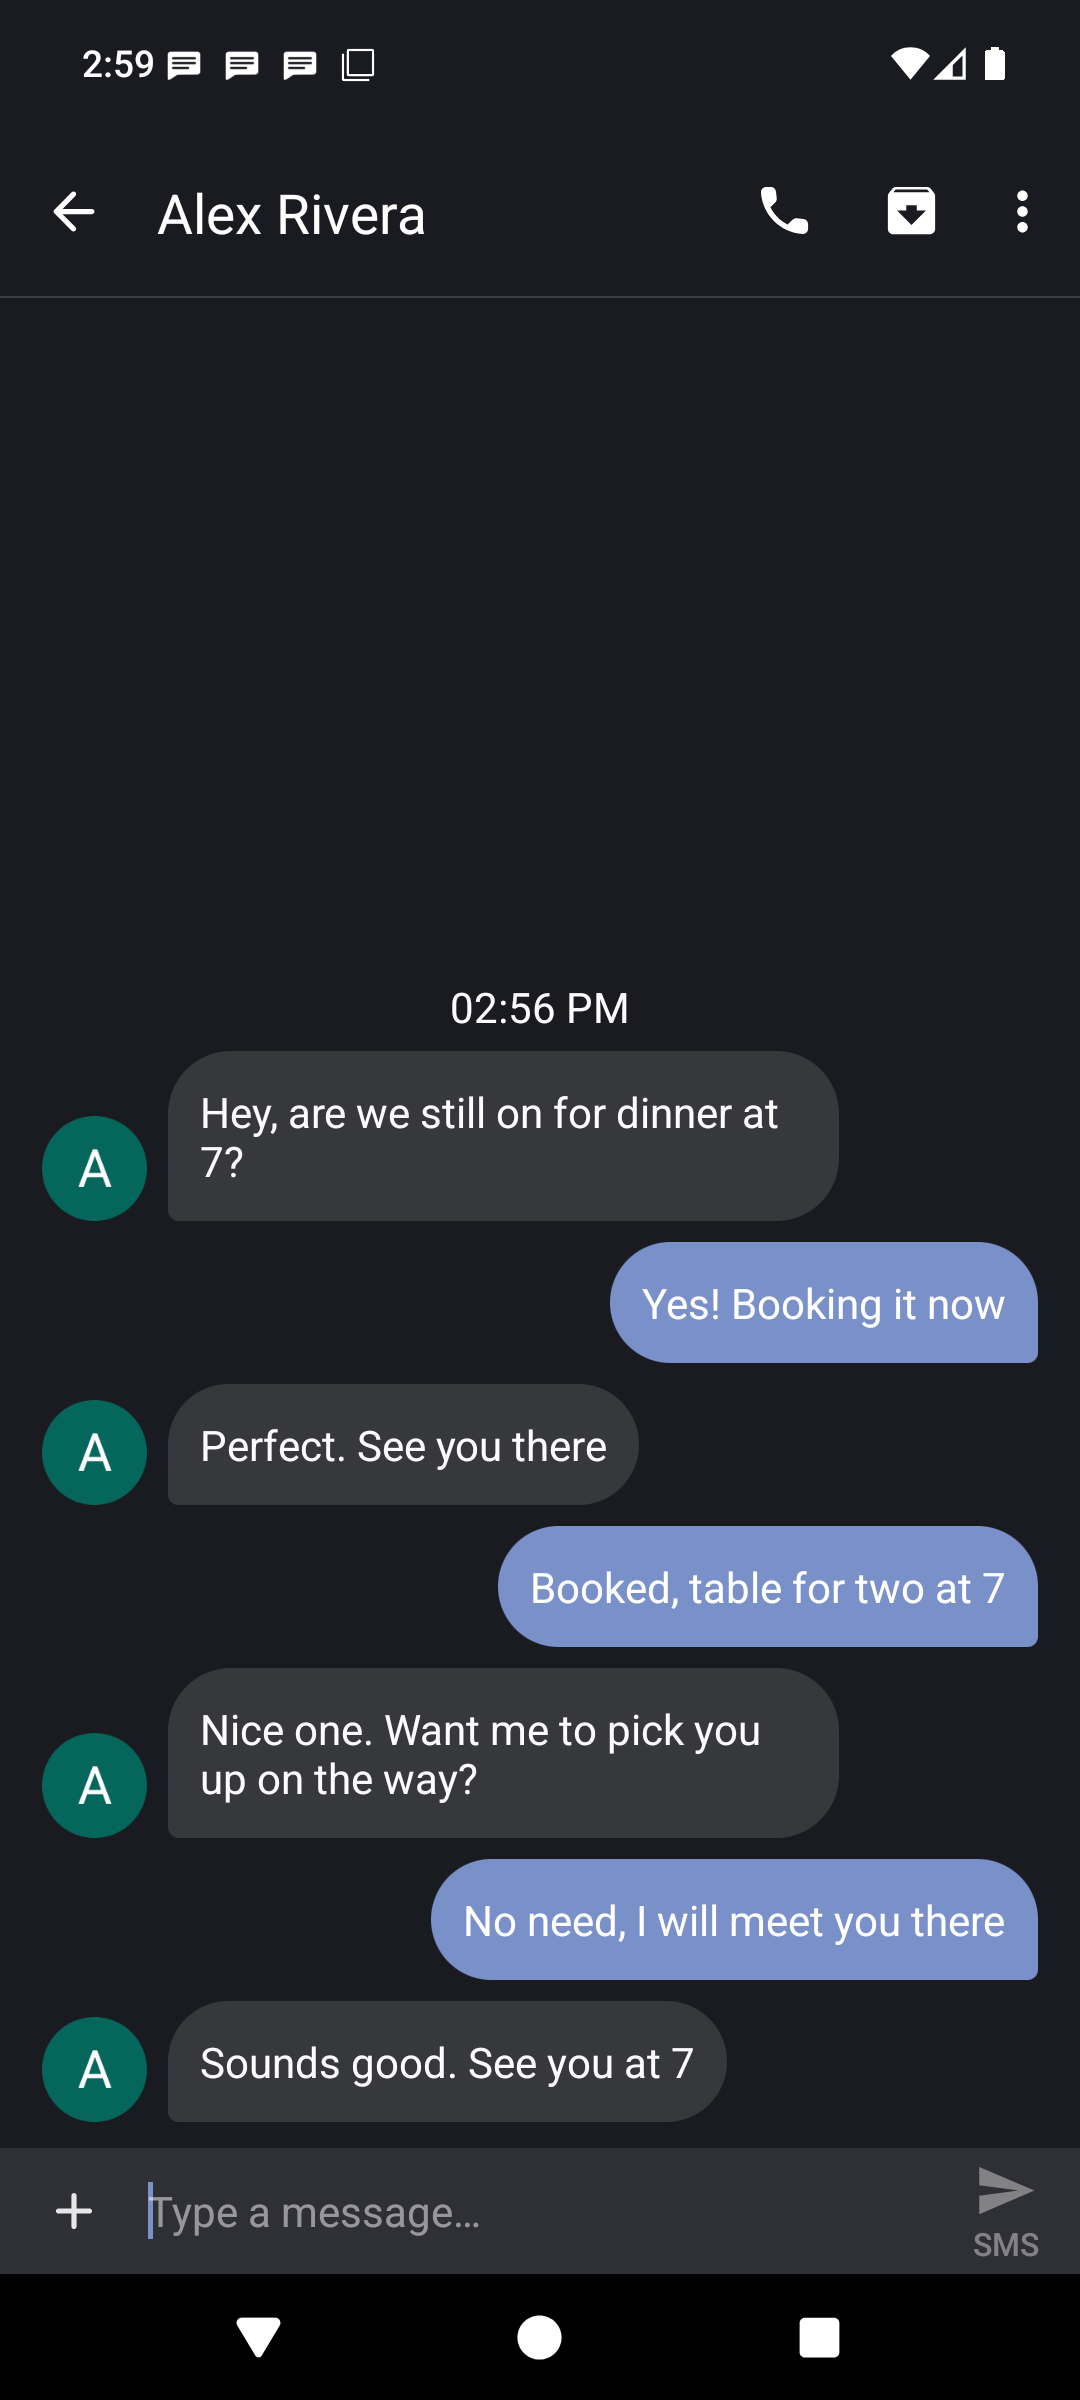
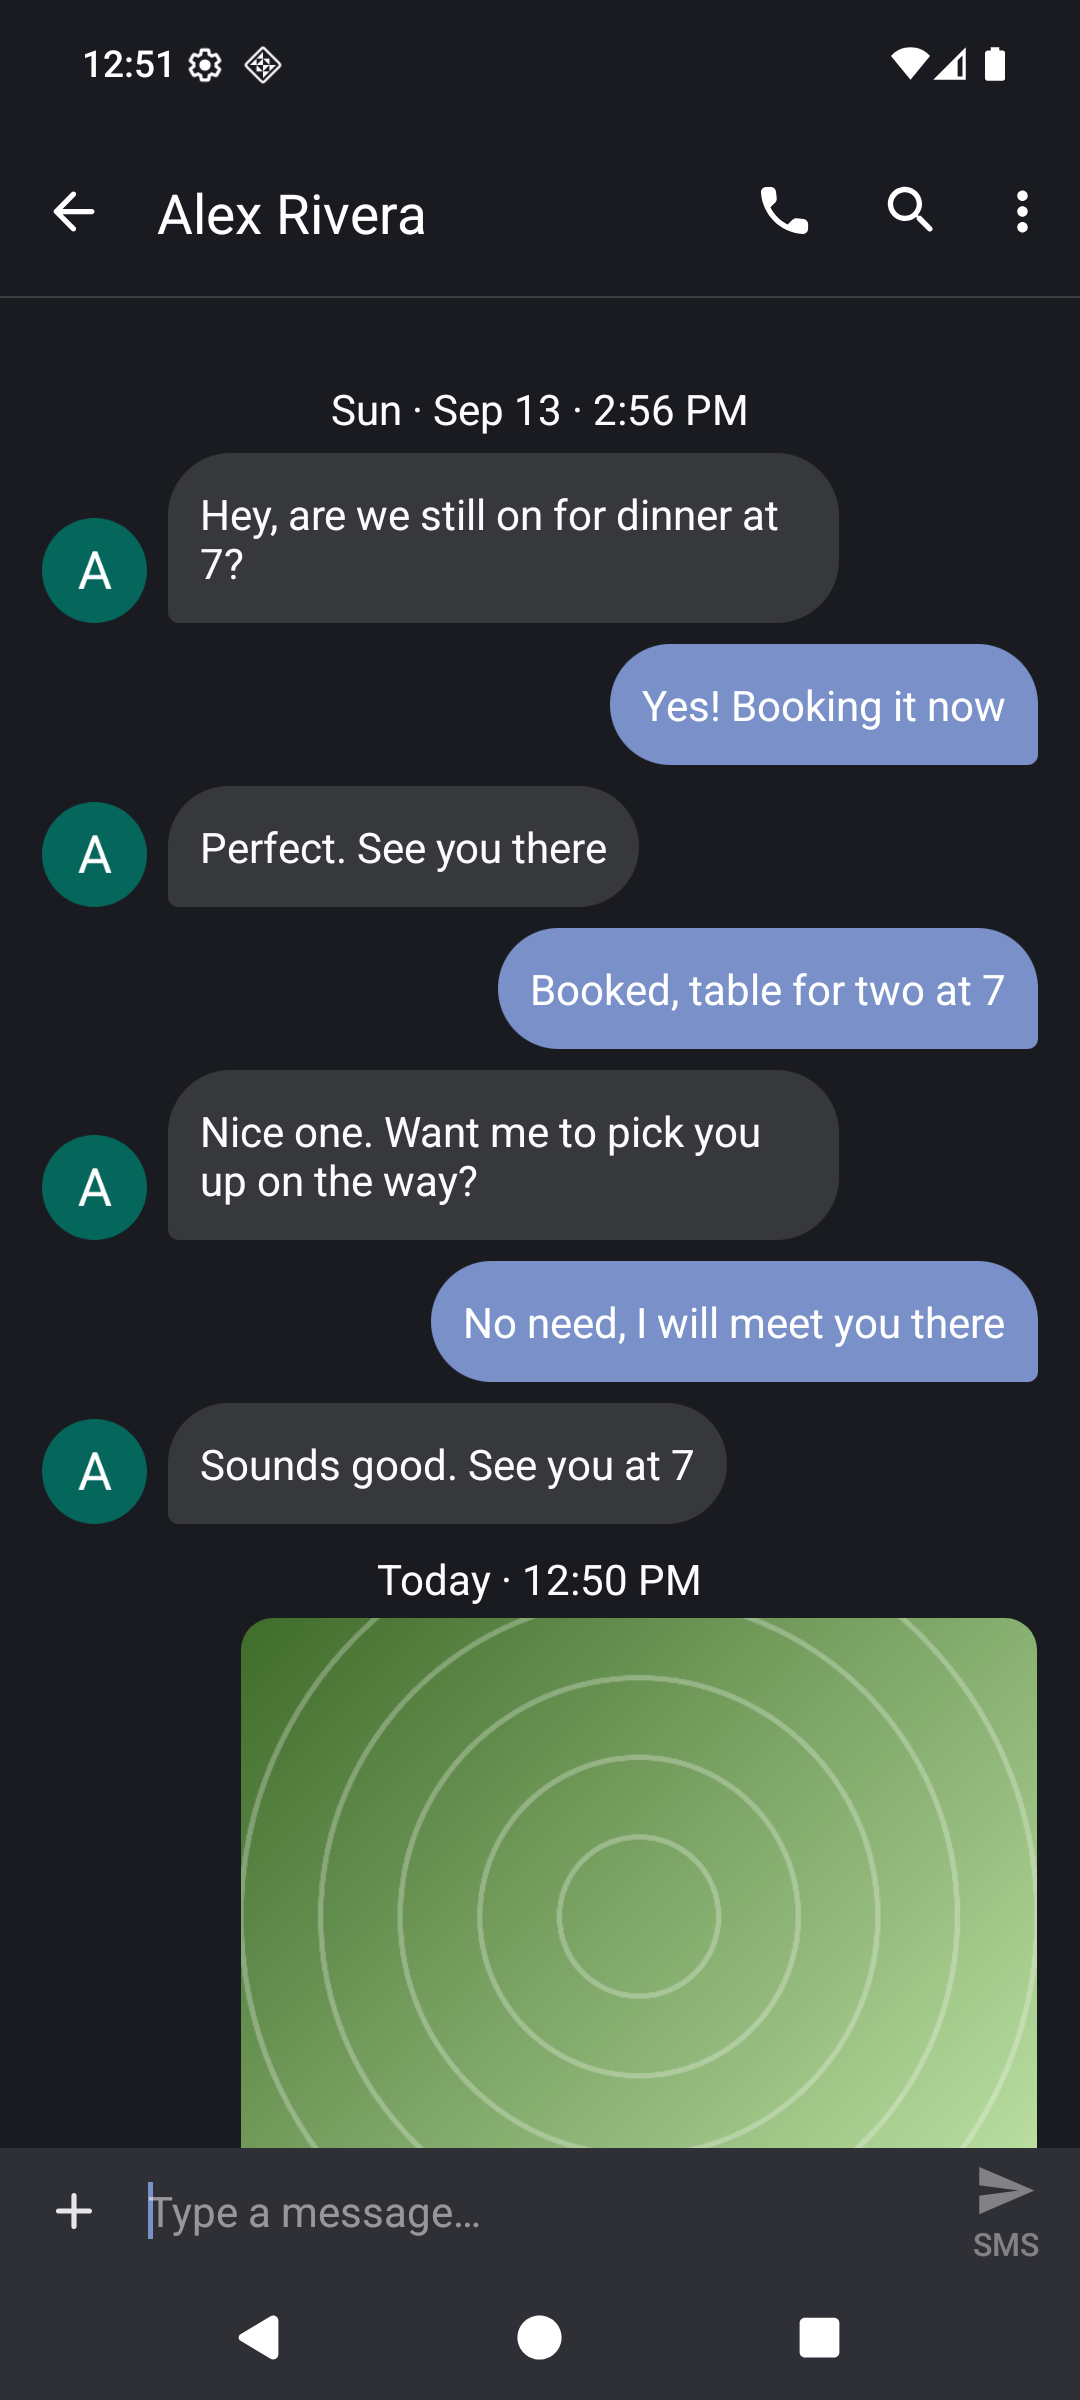
Write the README around what the app does now
The fork began as two notification and scrolling fixes and the README
still said only that. It now covers reading a message, the dates, the
media viewer and gallery, swipe actions, passcode conversations and what
reporting spam can honestly do, with screenshots of each.

Screenshots are taken on an emulator with invented contacts and messages;
nothing here comes from a real conversation.

diff --git a/README.md b/README.md
@@ -2,15 +2,13 @@
 
 # Levinium Messages
 
-**An SMS app that doesn't notify you about texts you are already reading.**
+**An SMS app that stays out of your way: no notifications for messages you are already reading, a
+gallery for what a conversation has sent you, and dates you can read at a glance.**
 
-This is an unofficial fork of [Fossify Messages](https://github.com/FossifyOrg/Messages) with two
-fixes: incoming messages stop raising notifications you would only have to dismiss, and a message
-that arrives while you are at the bottom of a conversation actually scrolls into view.
-
-It is not a Fossify product and is not affiliated with, endorsed by, or supported by the Fossify
-project. Please report problems with this fork [here](https://github.com/levinium/Messages/issues)
-rather than to them.
+An unofficial fork of [Fossify Messages](https://github.com/FossifyOrg/Messages), keeping everything
+that app does and adding the things this one needed. It is not a Fossify product and is not
+affiliated with, endorsed by, or supported by the Fossify project. Please report problems with this
+fork [here](https://github.com/levinium/Messages/issues) rather than to them.
 
 [![download](https://img.shields.io/github/v/release/levinium/Messages?label=download&sort=semver)](https://github.com/levinium/Messages/releases/latest)
 [![downloads](https://img.shields.io/github/downloads/levinium/Messages/total)](https://github.com/levinium/Messages/releases)
@@ -21,7 +19,7 @@ rather than to them.
 
 ## Download
 
-[**LeviniumMessages-1.9.1.apk**](https://github.com/levinium/Messages/releases/latest) — 6.3 MB
+[**LeviniumMessages-1.9.1-levinium.4.apk**](https://github.com/levinium/Messages/releases/latest) — 7.2 MB
 
 Your browser or file manager will warn you before installing an app from outside an app store, and
 Android will ask you to allow installs from that app once. That is expected for any APK installed by
@@ -49,26 +47,97 @@ The alert the notification would have played is **played in its place**, so noth
 silently. It goes through the conversation's own notification channel and honors Do Not Disturb and
 the ringer mode, so a muted conversation or a silenced phone stays quiet.
 
-All of it is optional, under **Settings → Notifications**, defaulting to the behavior above. Turning
-the first switch off restores upstream behavior for an open conversation completely.
+A message that arrives while you are sitting at the bottom of a conversation also **scrolls into
+view** rather than landing half cut off below the fold.
 
 <img src="docs/screenshots/notification-settings.png" width="320" alt="The three notification switches in Settings">
 
-## New messages scroll into view
+## Dates you can read
 
-Receiving a message while sitting at the bottom of a conversation used to leave it half cut off
-below the fold, needing a manual scroll to read what had just arrived.
+`09/19` tells you nothing about which of the two numbers is the month. Dates read as a person would
+say them — **Wed · Sep 19 · 8:03 PM** — throughout the app: on the separators inside a conversation,
+in the list, under an opened message and in the gallery.
 
-Two bugs sat in the same block upstream. The "is the user at the bottom" test required the last item
-to be exactly one position below the last visible one, but when you really are at the bottom that
-difference is zero, so the check failed in exactly the case it existed for. And when it did fire, it
-scrolled to the last index of the *previous* list, which is the message before the one that arrived.
+The year is dropped while it is still the current one, and today and yesterday are named rather than
+dated. Both of those, and the spelled-out format itself, can be turned off in Settings.
 
-<img src="docs/screenshots/conversation.png" width="320" alt="A conversation">
+## Tap a message to read it
+
+Tapping a message opens it: larger text, its timestamp underneath, and the text selectable so you
+can copy part of it rather than the whole thing. Tapping it again closes it.
+
+Long pressing a link offers to copy, open or share it. Messages that are nothing but emoji are drawn
+large, the way every other messaging app draws them.
+
+<img src="docs/screenshots/reading-mode.png" width="320" alt="A message opened to show its timestamp">
+
+## Pictures stay in the app
+
+Tapping a picture used to hand it to whatever other app claimed the file type, which loses the
+conversation you were in. It opens in the app instead, with pinch and double-tap zoom, video
+playback, and a swipe sideways through everything else the conversation holds.
+
+<img src="docs/screenshots/media-viewer.png" width="320" alt="A picture open in the viewer, titled with when it was sent">
+
+**View media** in the conversation's menu opens all of it as a grid, dated as you scroll. Select one
+or several to share, save, copy or open them — the things people do with pictures from a
+conversation are rarely done one at a time.
+
+<img src="docs/screenshots/gallery.png" width="320" alt="The gallery grid with a picture selected">
+
+## Swipe a conversation to deal with it
+
+Filing something away meant long pressing it, waiting for the action bar and finding the right icon.
+A swipe does it: **right marks read or unread, left archives**, and either direction can be set to
+any of those, to delete, or to nothing at all.
+
+The row carries the colour and icon of what is coming while it moves, so the gesture says what it
+will do before you finish it. Afterwards a bar offers to undo it. In the archive the pair is fixed
+and obvious: swipe right to put a conversation back, left to be rid of it.
+
+<img src="docs/screenshots/swipe-actions.png" width="320" alt="A conversation part way through a swipe, showing the mark-read icon">
+
+## Passcode conversations are treated as what they are
+
+A conversation that only ever delivered verification codes is not a conversation. The app recognises
+one — nothing ever sent to it, not a saved contact, and mostly codes — and treats it accordingly: it
+is deleted rather than archived (it asks first, and shows the delete icon while you swipe), and its
+toolbar drops the call and search buttons for a delete button, since nobody rings a passcode.
+
+<img src="docs/screenshots/passcode-swipe.png" width="320" alt="A passcode conversation being swiped, showing the delete icon">
+
+## Reporting spam, honestly
+
+There is no API to report a message as spam — not on Android, not to any service a messaging app can
+reach. What does exist is **7726** (SPAM), which the GSMA reserves so a carrier can be told about a
+sender. The menu explains that, then opens a conversation with 7726 carrying the offending message,
+ready for you to send. Nothing is sent without you pressing send.
+
+**Reply STOP** sits beside it, shown only for short codes. A legitimate service is obliged to honour
+it; anybody else just learns that a person is reading what they send, which the app says before it
+puts STOP in the message box.
+
+<img src="docs/screenshots/report-spam.png" width="320" alt="The report spam dialog">
+
+## Smaller things
+
+- **Search inside a conversation** from the toolbar, over everything the app has stored for it
+  rather than only the part already on screen. The arrows wrap around at either end.
+- **Failed messages say so and offer RETRY**, which resends that message in place instead of
+  dropping its text back into the box for you to send again.
+- **Archiving moved to the overflow**, where the other whole-conversation actions live; it sat one
+  mis-tap away from the call button.
+- **Attachments are no longer clipped** at the right edge of a conversation.
+
+## Settings
+
+Everything above that could sensibly be a choice is one, defaulting to the behaviour described here.
+
+<img src="docs/screenshots/settings.png" width="320" alt="The swipe action settings">
 
 ## Upstream
 
-Both fixes are reported upstream, and if they land there this fork stops having a reason to exist:
+The two original fixes are reported upstream:
 
 - [FossifyOrg/Messages#877](https://github.com/FossifyOrg/Messages/issues/877) — notifications for
   messages you are already reading
@@ -82,6 +151,7 @@ Requires JDK 17 or newer and the Android SDK (compileSdk 36).
 ```sh
 ./gradlew assembleFossDebug      # debug build, installs alongside as .debug
 ./gradlew assembleFossRelease    # release build; needs keystore.properties, see app/build.gradle.kts
+./gradlew detekt lintFossDebug testFossDebugUnitTest
 ```
 
 Two things about this fork are deliberate and worth knowing before changing them. The Kotlin and
